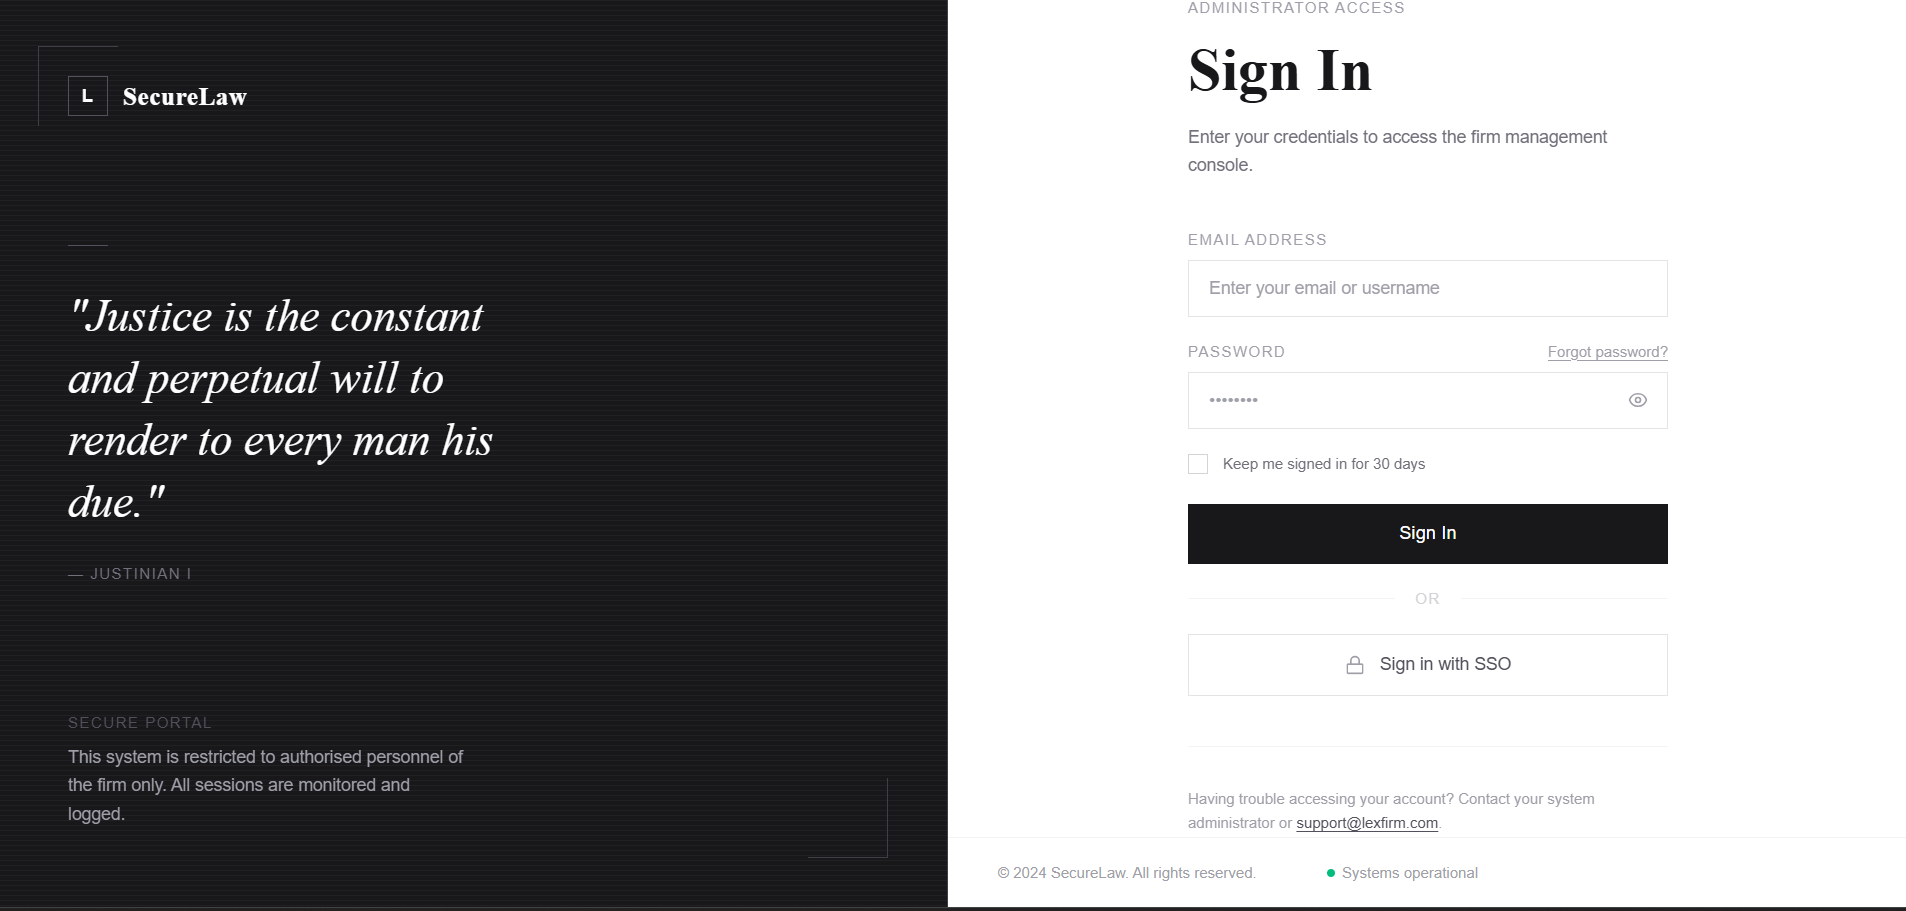
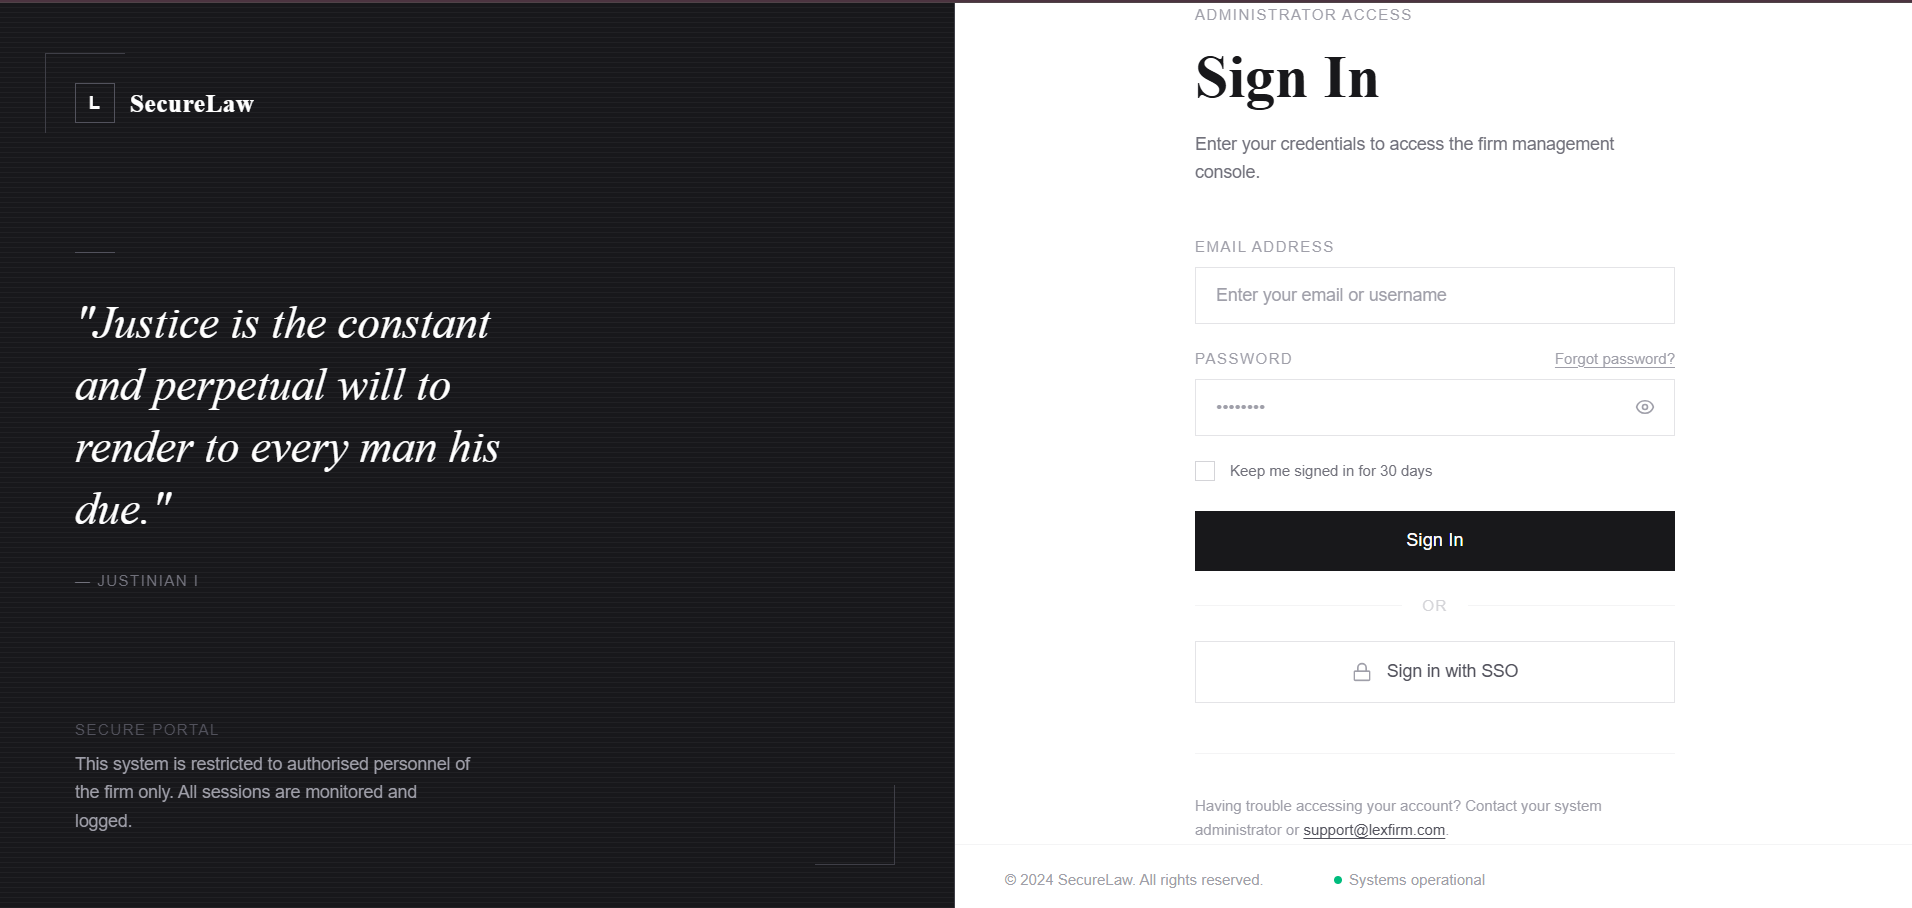
feat: add projects data, footer section, and project images

diff --git a/src/sections/Footer.jsx b/src/sections/Footer.jsx
@@ -22,10 +22,8 @@ export default function Footer() {
           </div>
 
           {/* Quick links */}
-          <div className="flex flex-col gap-2">
-            <span className="text-xs text-text-muted uppercase tracking-wider font-medium mb-1">
-              Links
-            </span>
+          
+          <div className="flex flex-row gap-3 justify-center">
             {["About", "Projects", "Contact"].map((link) => (
               <a
                 key={link}
@@ -43,19 +41,10 @@ export default function Footer() {
               Social
             </span>
             <SocialLinks className="sm:justify-end" />
-          </div>
-        </div>
-
-        {/* Bottom bar */}
-        <div className="mt-10 pt-6 border-t border-border flex flex-col sm:flex-row justify-between items-center gap-4">
-          <p className="text-xs text-text-muted">
+            <p className="text-xs text-text-muted mt-5">
             © {currentYear} {profile.name}. All rights reserved.
           </p>
-          <p className="text-xs text-text-muted">
-            Built with{" "}
-            <span className="text-text-secondary">React</span> +{" "}
-            <span className="text-text-secondary">Tailwind CSS</span>
-          </p>
+          </div>
         </div>
       </div>
     </footer>

diff --git a/src/data/projects.js b/src/data/projects.js
@@ -8,7 +8,7 @@ export const projects = [
     demo: null,
     featured: true,
     category: ["Frontend"],
-    image: null,
+    image: "/novacart.png",
   },
   {
     title: "Running Tracker",
@@ -73,7 +73,7 @@ export const projects = [
     demo: null,
     featured: false,
     category: ["Java"],
-    image: "",
+    image: "/PInventory.png",
   },
   {
     title: "SecureLaw AI Data Filter",
@@ -91,7 +91,7 @@ export const projects = [
     demo: "https://securelaw.vercel.app/login",
     featured: true,
     category: ["AI", "Backend", "Java"],
-    image: "/securelaw.jpg",
+    image: "/secureLaw.png",
   },
 ];
 
